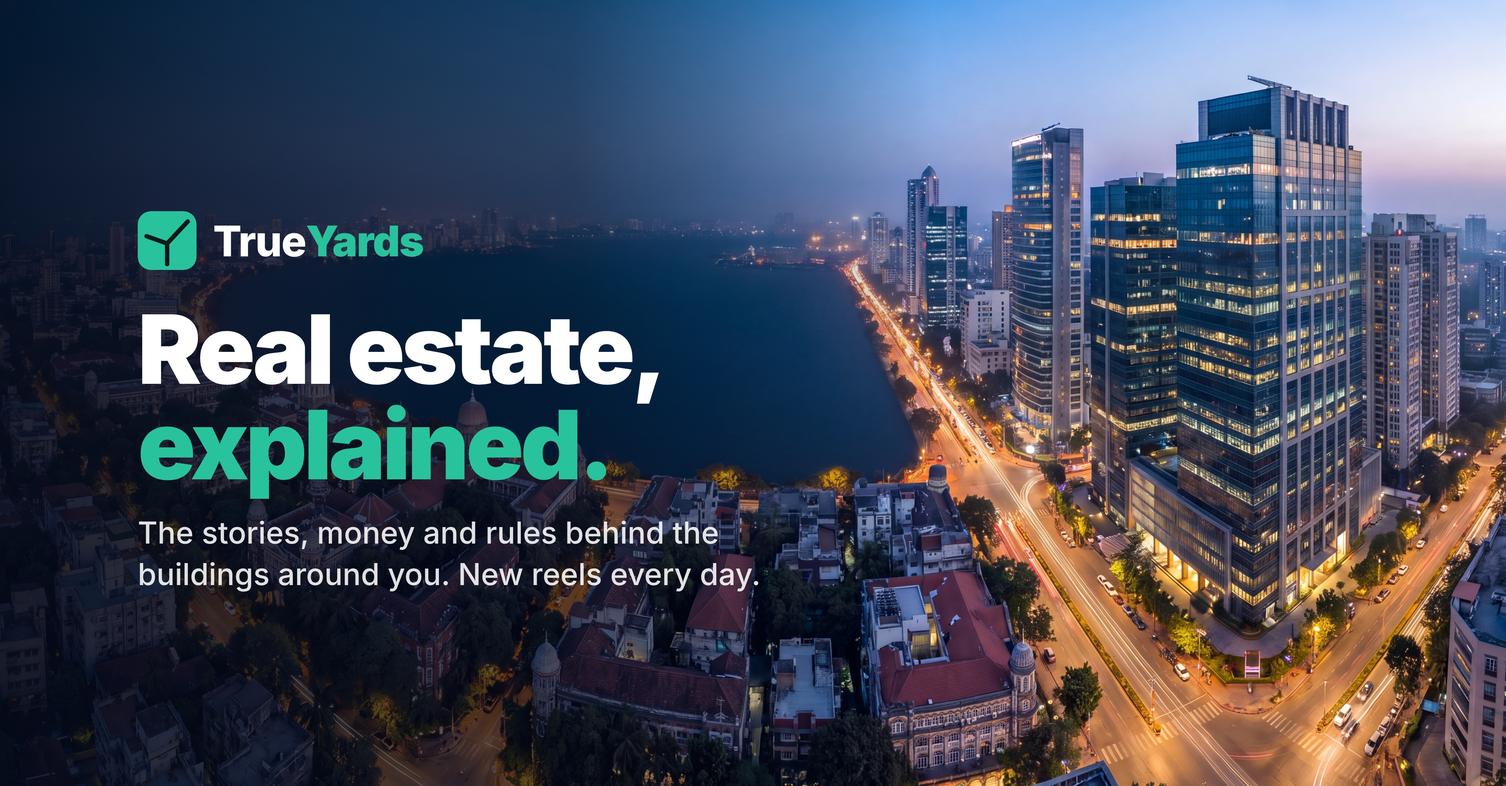
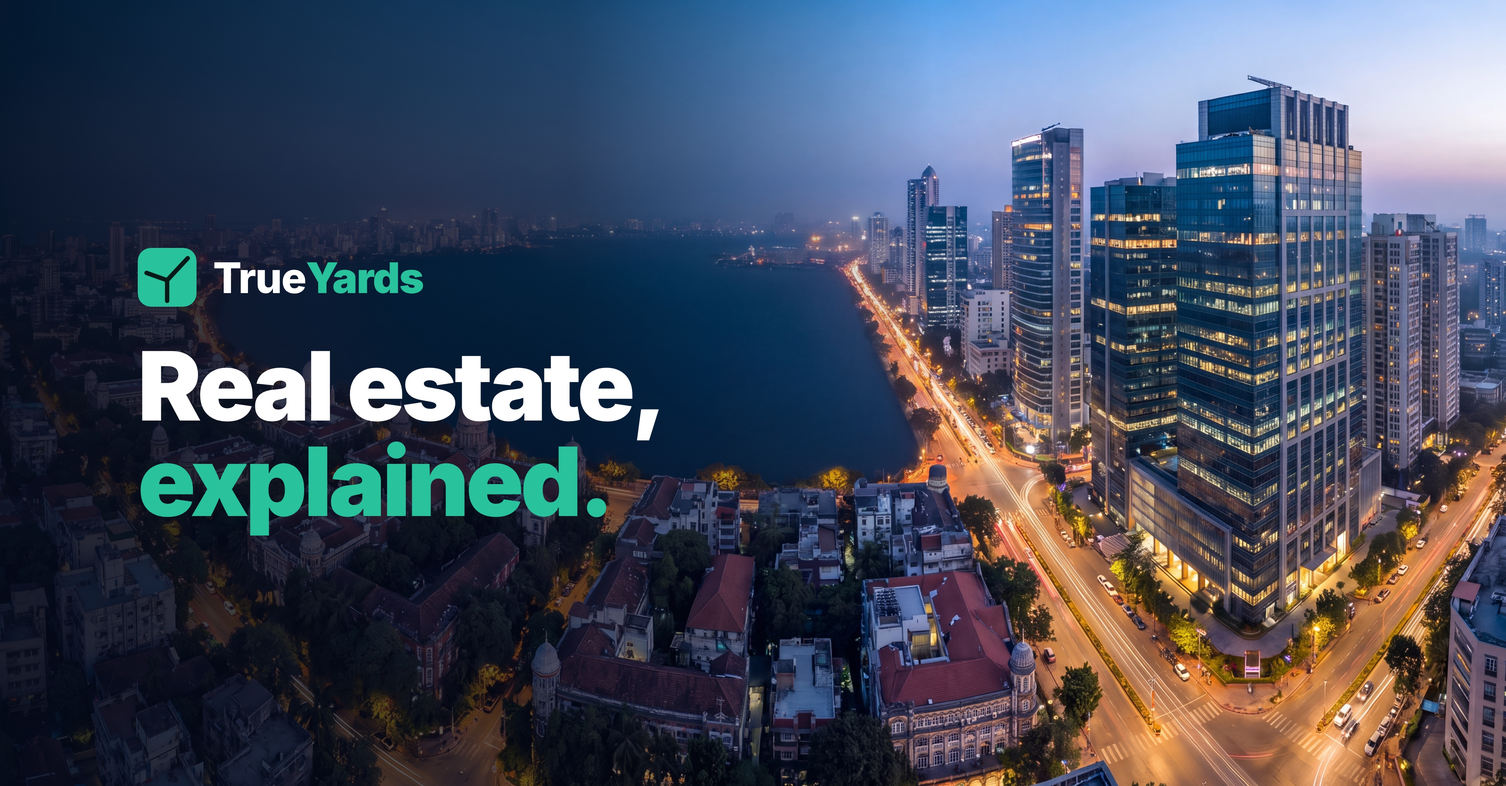
Brand: covers without subheading, FB + X updated
Claude-Session: https://claude.ai/code/session_01KcYSHrnAmBoJxKFGe6gHQA

Changed region(s): [[0.0937, 0.2467, 0.4995, 0.771]]

diff --git a/library/brand/cover4k.html b/library/brand/cover4k.html
@@ -5,8 +5,8 @@
 *{margin:0;padding:0}body{width:1640px;height:856px;overflow:hidden;font-family:IN}
 .bg{position:absolute;inset:0;background:url(bg4k.png) 60% 55%/cover}
 .sh{position:absolute;inset:0;background:linear-gradient(90deg,rgba(5,10,24,.88) 0%,rgba(5,10,24,.6) 38%,rgba(5,10,24,0) 62%)}
-.box{position:absolute;left:150px;top:230px;color:#fff}
+.box{position:absolute;left:150px;top:270px;color:#fff}
 .lg{display:flex;align-items:center;gap:18px;font:800 46px IN;letter-spacing:-.02em}.lg img{width:64px;height:64px;border-radius:14px}.lg b{color:#28c39d}
 h1{font:900 104px/1 IN;letter-spacing:-.035em;margin-top:34px}h1 span{color:#28c39d}
 p{font:500 33px/1.35 IN;margin-top:22px;color:rgba(255,255,255,.88);width:760px}
-</style></head><body><div class="bg"></div><div class="sh"></div><div class="box"><div class="lg"><img src="icon.png"><span>True<b>Yards</b></span></div><h1>Real estate,<br><span>explained.</span></h1><p>The stories, money and rules behind the buildings around you. New reels every day.</p></div></body></html>
+</style></head><body><div class="bg"></div><div class="sh"></div><div class="box"><div class="lg"><img src="icon.png"><span>True<b>Yards</b></span></div><h1>Real estate,<br><span>explained.</span></h1></div></body></html>

diff --git a/library/brand/xheader.html b/library/brand/xheader.html
@@ -5,8 +5,8 @@
 *{margin:0;padding:0}body{width:1500px;height:500px;overflow:hidden;font-family:IN}
 .bg{position:absolute;inset:0;background:url(bg4k.png) 62% 52%/cover}
 .sh{position:absolute;inset:0;background:linear-gradient(90deg,rgba(5,10,24,.88) 0%,rgba(5,10,24,.62) 40%,rgba(5,10,24,0) 64%)}
-.box{position:absolute;left:175px;top:78px;color:#fff}
+.box{position:absolute;left:175px;top:110px;color:#fff}
 .lg{display:flex;align-items:center;gap:13px;font:800 32px IN;letter-spacing:-.02em}.lg img{width:44px;height:44px;border-radius:10px}.lg b{color:#28c39d}
 h1{font:900 74px/1 IN;letter-spacing:-.035em;margin-top:22px}h1 span{color:#28c39d}
 p{font:500 23px/1.35 IN;margin-top:16px;color:rgba(255,255,255,.88);width:560px}
-</style></head><body><div class="bg"></div><div class="sh"></div><div class="box"><div class="lg"><img src="icon.png"><span>True<b>Yards</b></span></div><h1>Real estate,<br><span>explained.</span></h1><p>The stories, money and rules behind the buildings around you. New reels every day.</p></div></body></html>
+</style></head><body><div class="bg"></div><div class="sh"></div><div class="box"><div class="lg"><img src="icon.png"><span>True<b>Yards</b></span></div><h1>Real estate,<br><span>explained.</span></h1></div></body></html>

diff --git a/library/brand/PROFILES.md b/library/brand/PROFILES.md
@@ -7,3 +7,4 @@
   - YouTube / LinkedIn: render the same HTML at their banner sizes, 3x scale.
 - Link: https://trueyards.in
 - Handles: IG/Threads trueyards.in, X @trueyards_in (@TrueYards is an unrelated 2013 account), FB TrueYards.
+- Cover text: TrueYards logo + "Real estate, explained." only. No subheading (Rishi, 16 Nov).
